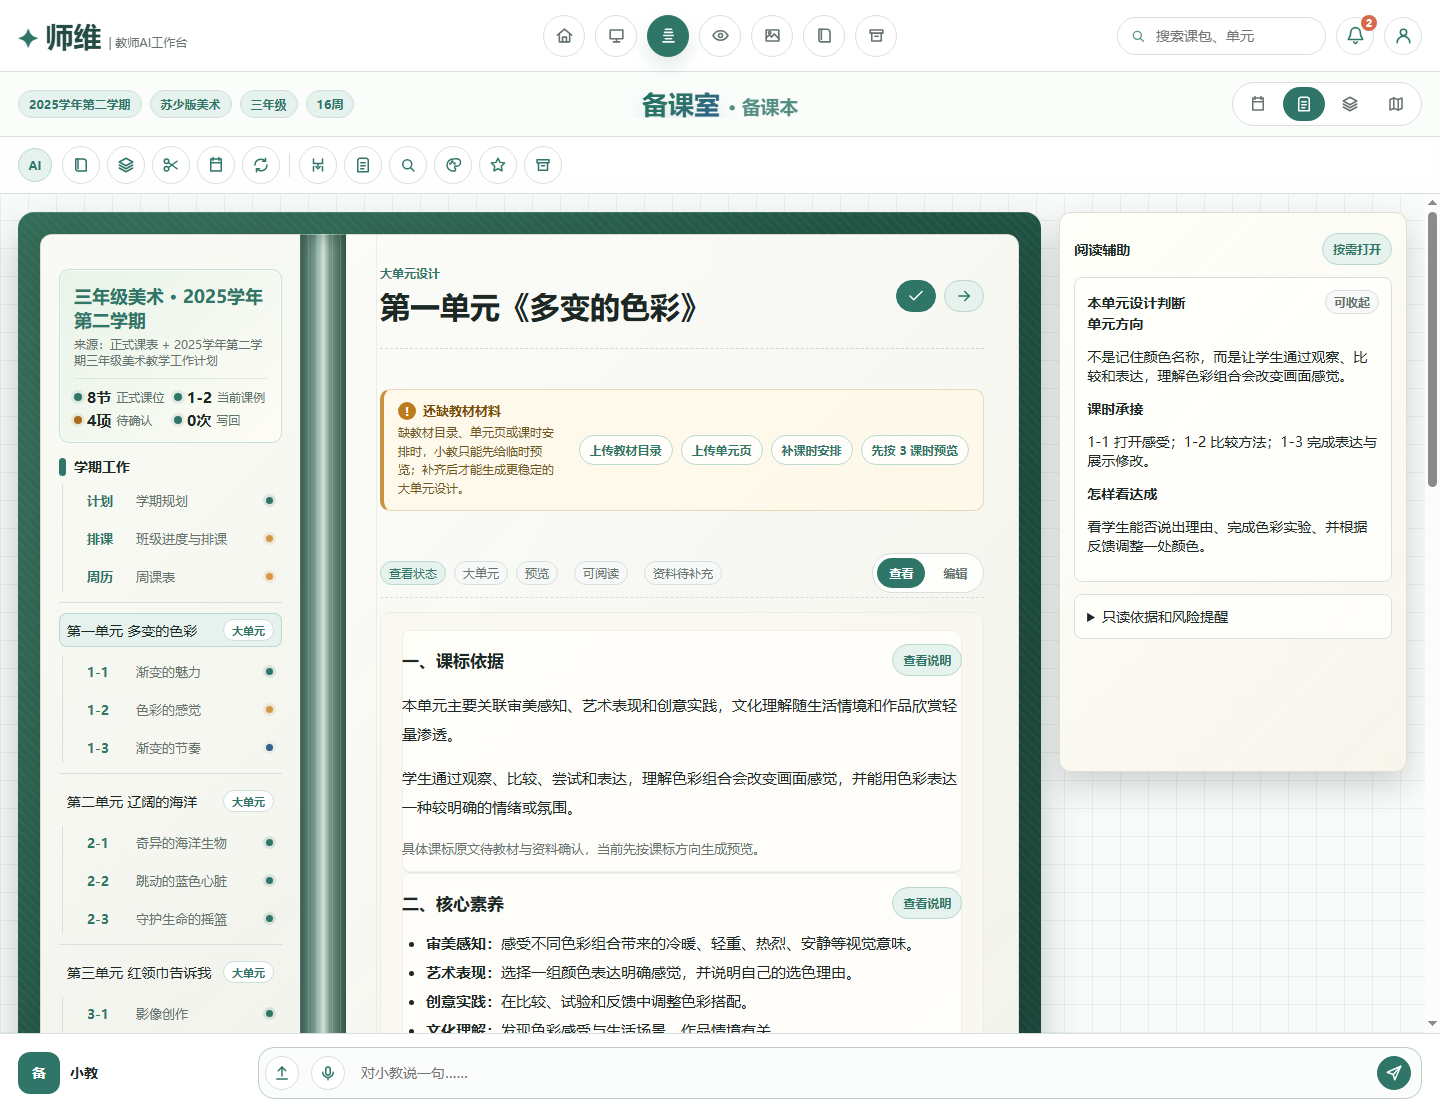
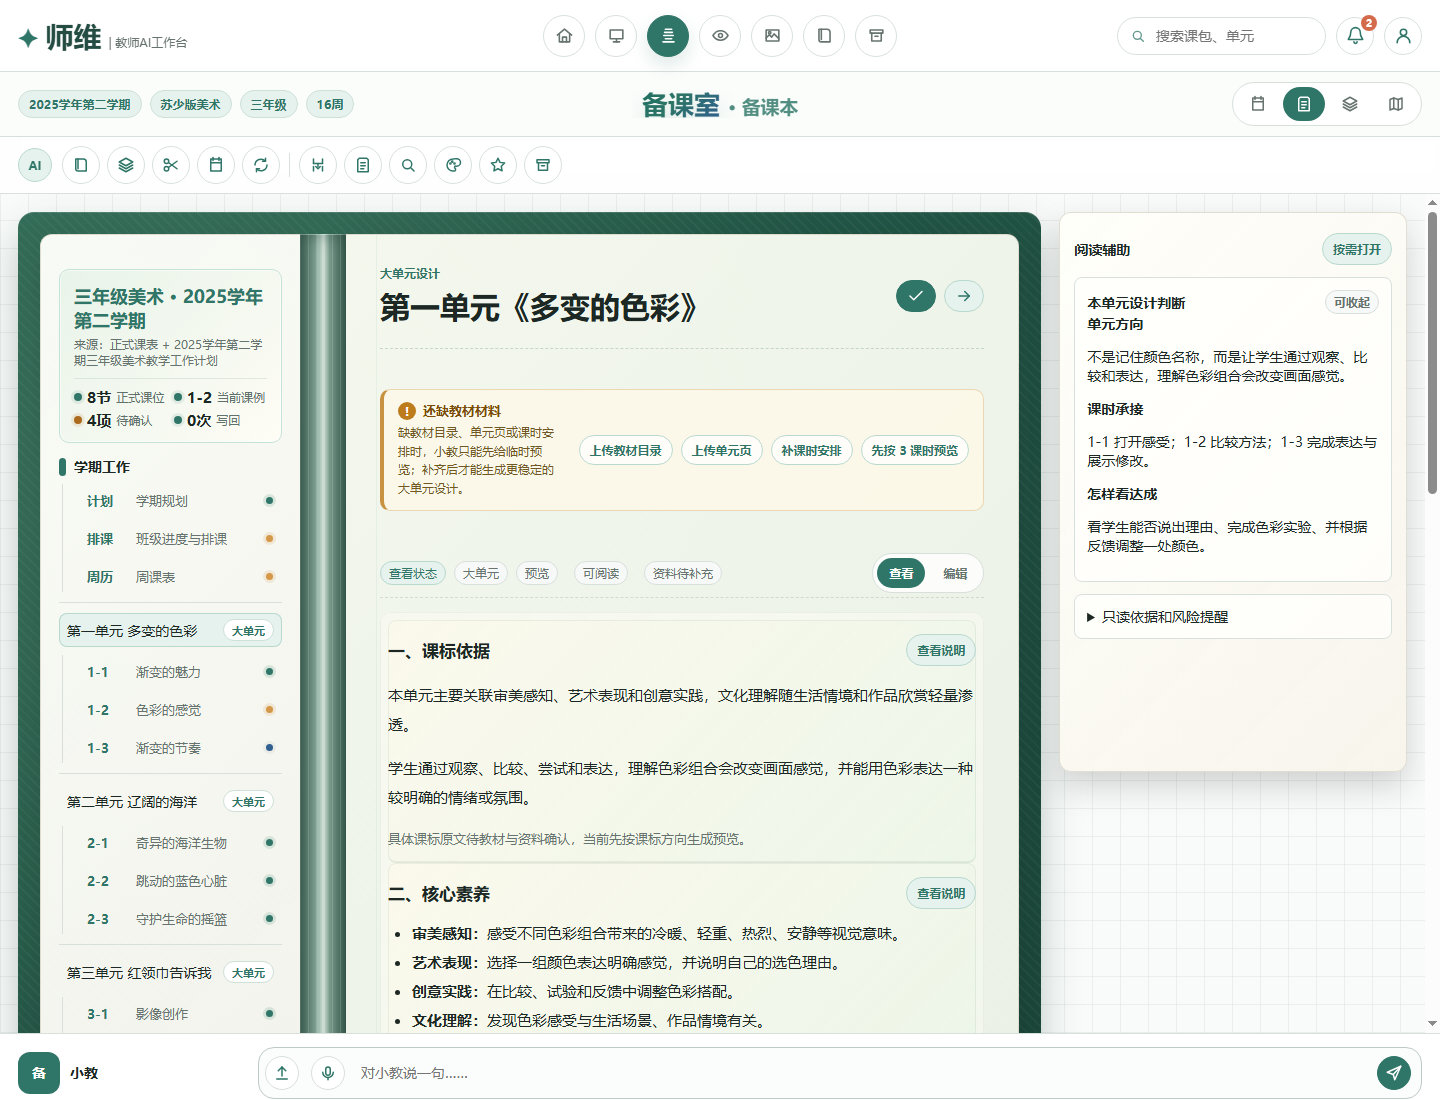
Patch R6N R8 big unit notebook background tone

Changed region(s): [[0.2812, 0.5564, 0.6875, 0.9582], [0.625, 0.7727, 0.6875, 0.8345]]

diff --git a/1013I_R6N_R8_big_unit_design_restyled_as_lesson_notebook_ui/prep_room_render_canvas_deepen_v1_R6N_R8_big_unit_design_lesson_notebook_ui.html b/1013I_R6N_R8_big_unit_design_restyled_as_lesson_notebook_ui/prep_room_render_canvas_deepen_v1_R6N_R8_big_unit_design_lesson_notebook_ui.html
@@ -5565,6 +5565,9 @@
     /* 1013I_R6N_R8: big-unit page restyled as the polished single-lesson notebook UI */
     [data-r6n-r8-notebook-ui] .nb-workspace {
       padding-left: 34px;
+      background:
+        linear-gradient(90deg, rgba(204, 223, 212, 0.34) 0 1px, transparent 1px) 30px 0 / 100% 100% no-repeat,
+        linear-gradient(135deg, rgba(247, 250, 240, 0.98), rgba(237, 245, 233, 0.95));
     }
 
     [data-r6n-r8-notebook-ui] .nb-hero {
@@ -5576,11 +5579,18 @@
     [data-r6n-r8-notebook-ui] .nb-doc-body-surface {
       max-width: 880px;
       margin: 0 auto;
+      background:
+        radial-gradient(circle at 14px 14px, rgba(53, 93, 74, 0.035) 1px, transparent 1.5px),
+        linear-gradient(135deg, rgba(249, 250, 241, 0.8), rgba(236, 244, 232, 0.64));
+      background-size: 18px 18px, auto;
+      border-radius: 10px;
+      padding: 8px;
     }
 
     [data-r6n-r8-notebook-ui] .nb-doc-section {
       border-radius: 8px;
-      background: rgba(255, 255, 252, .72);
+      background:
+        linear-gradient(135deg, rgba(251, 249, 235, .86), rgba(235, 245, 232, .78));
       box-shadow: inset 0 0 0 1px rgba(38, 94, 76, .08);
     }
 

diff --git a/scripts/validate_1013I_R6N_R8_big_unit_design_restyled_as_lesson_notebook_ui.py b/scripts/validate_1013I_R6N_R8_big_unit_design_restyled_as_lesson_notebook_ui.py
@@ -82,6 +82,9 @@ def r6n_r8_css() -> str:
     /* 1013I_R6N_R8: big-unit page restyled as the polished single-lesson notebook UI */
     [data-r6n-r8-notebook-ui] .nb-workspace {
       padding-left: 34px;
+      background:
+        linear-gradient(90deg, rgba(204, 223, 212, 0.34) 0 1px, transparent 1px) 30px 0 / 100% 100% no-repeat,
+        linear-gradient(135deg, rgba(247, 250, 240, 0.98), rgba(237, 245, 233, 0.95));
     }
 
     [data-r6n-r8-notebook-ui] .nb-hero {
@@ -93,11 +96,18 @@ def r6n_r8_css() -> str:
     [data-r6n-r8-notebook-ui] .nb-doc-body-surface {
       max-width: 880px;
       margin: 0 auto;
+      background:
+        radial-gradient(circle at 14px 14px, rgba(53, 93, 74, 0.035) 1px, transparent 1.5px),
+        linear-gradient(135deg, rgba(249, 250, 241, 0.8), rgba(236, 244, 232, 0.64));
+      background-size: 18px 18px, auto;
+      border-radius: 10px;
+      padding: 8px;
     }
 
     [data-r6n-r8-notebook-ui] .nb-doc-section {
       border-radius: 8px;
-      background: rgba(255, 255, 252, .72);
+      background:
+        linear-gradient(135deg, rgba(251, 249, 235, .86), rgba(235, 245, 232, .78));
       box-shadow: inset 0 0 0 1px rgba(38, 94, 76, .08);
     }
 

diff --git a/source_delta_1013I_R6N_R8/scripts/validate_1013I_R6N_R8_big_unit_design_restyled_as_lesson_notebook_ui.py b/source_delta_1013I_R6N_R8/scripts/validate_1013I_R6N_R8_big_unit_design_restyled_as_lesson_notebook_ui.py
@@ -82,6 +82,9 @@ def r6n_r8_css() -> str:
     /* 1013I_R6N_R8: big-unit page restyled as the polished single-lesson notebook UI */
     [data-r6n-r8-notebook-ui] .nb-workspace {
       padding-left: 34px;
+      background:
+        linear-gradient(90deg, rgba(204, 223, 212, 0.34) 0 1px, transparent 1px) 30px 0 / 100% 100% no-repeat,
+        linear-gradient(135deg, rgba(247, 250, 240, 0.98), rgba(237, 245, 233, 0.95));
     }
 
     [data-r6n-r8-notebook-ui] .nb-hero {
@@ -93,11 +96,18 @@ def r6n_r8_css() -> str:
     [data-r6n-r8-notebook-ui] .nb-doc-body-surface {
       max-width: 880px;
       margin: 0 auto;
+      background:
+        radial-gradient(circle at 14px 14px, rgba(53, 93, 74, 0.035) 1px, transparent 1.5px),
+        linear-gradient(135deg, rgba(249, 250, 241, 0.8), rgba(236, 244, 232, 0.64));
+      background-size: 18px 18px, auto;
+      border-radius: 10px;
+      padding: 8px;
     }
 
     [data-r6n-r8-notebook-ui] .nb-doc-section {
       border-radius: 8px;
-      background: rgba(255, 255, 252, .72);
+      background:
+        linear-gradient(135deg, rgba(251, 249, 235, .86), rgba(235, 245, 232, .78));
       box-shadow: inset 0 0 0 1px rgba(38, 94, 76, .08);
     }
 